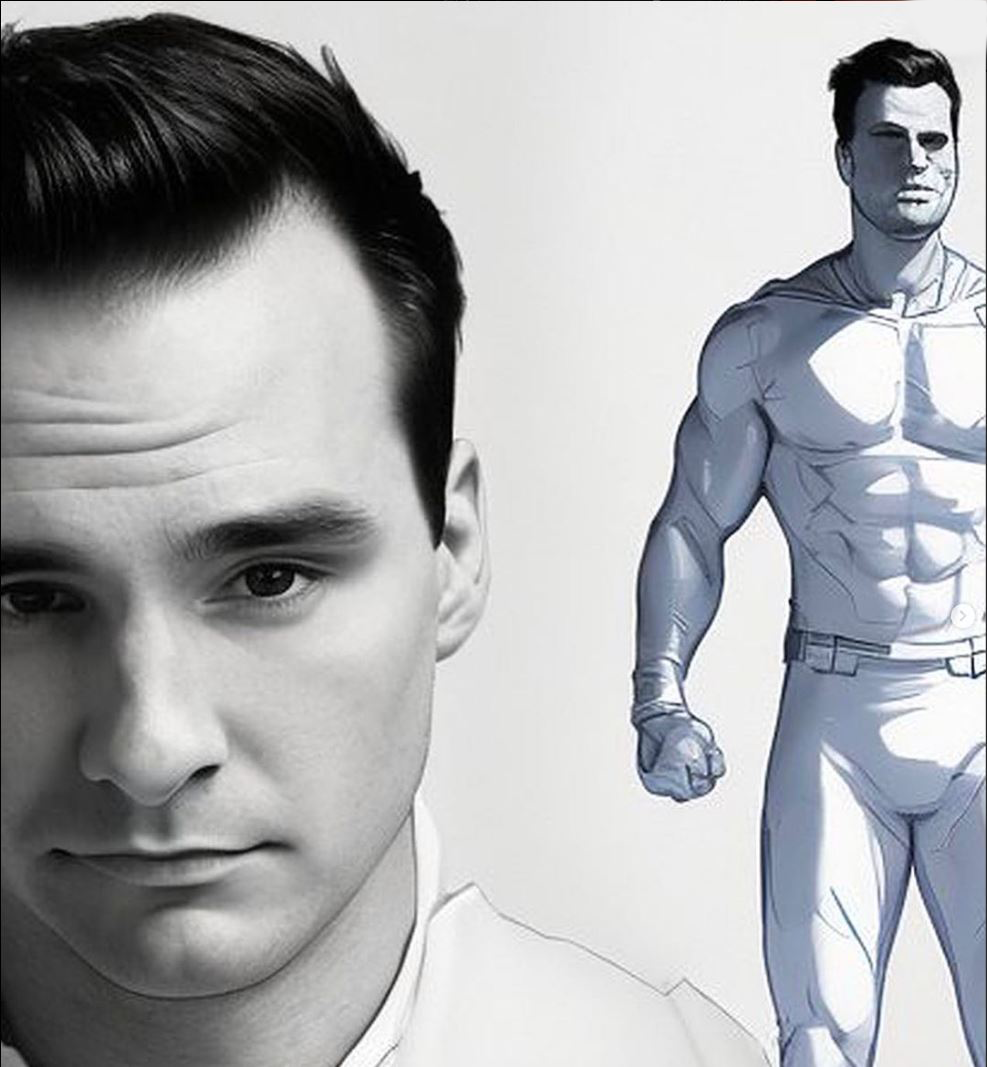
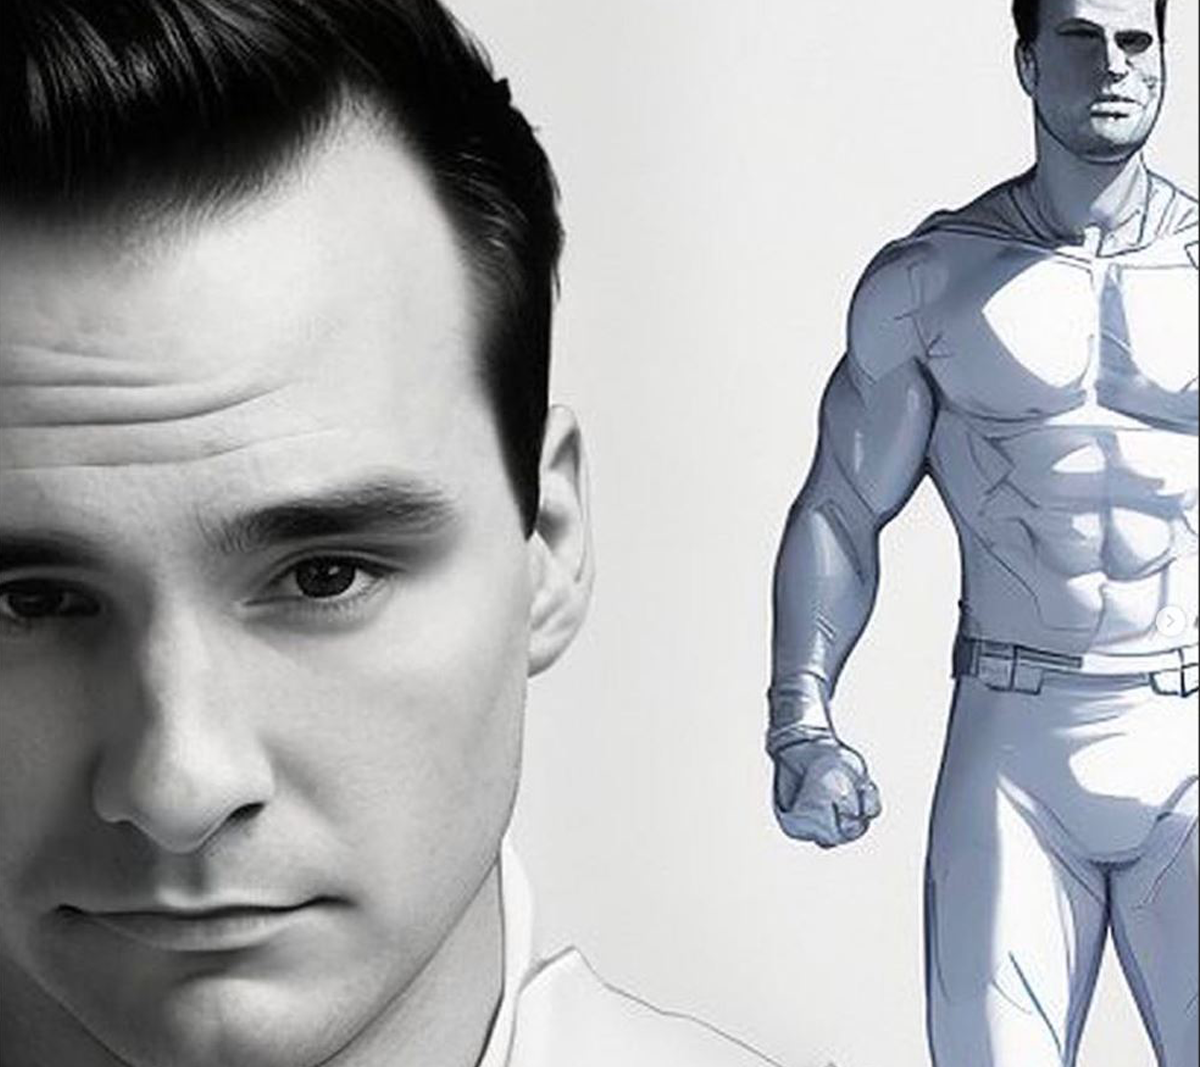
added twitter tags & adjusted thumbnail image

diff --git a/src/components/HeadComponent.jsx b/src/components/HeadComponent.jsx
@@ -8,6 +8,11 @@ const HeadComponent = () => (
         <meta property="og:image" content={thumbnail} />
         <meta property="og:url" content="https://dreambigjoe.com" />
         <meta property="og:type" content="website" />
+
+        <meta name="twitter:card" content="summary_large_image" />
+        <meta name="twitter:title" content="Think Big Joe | Web Developer" />
+        <meta name="twitter:description" content="Joseph Sardella is a Full-Stack Web Developer with experience in Reactjs, Nodejs, Threejs, MongoDB, Nextjs & Gatsby. He also is a Generative AI artist, Video & SFX Editor & Graphic Designer. Contact today to elevate your business and Dream Big with Joe!" />
+        <meta name="twitter:image" content={thumbnail} />
     </Helmet>
 );
 
